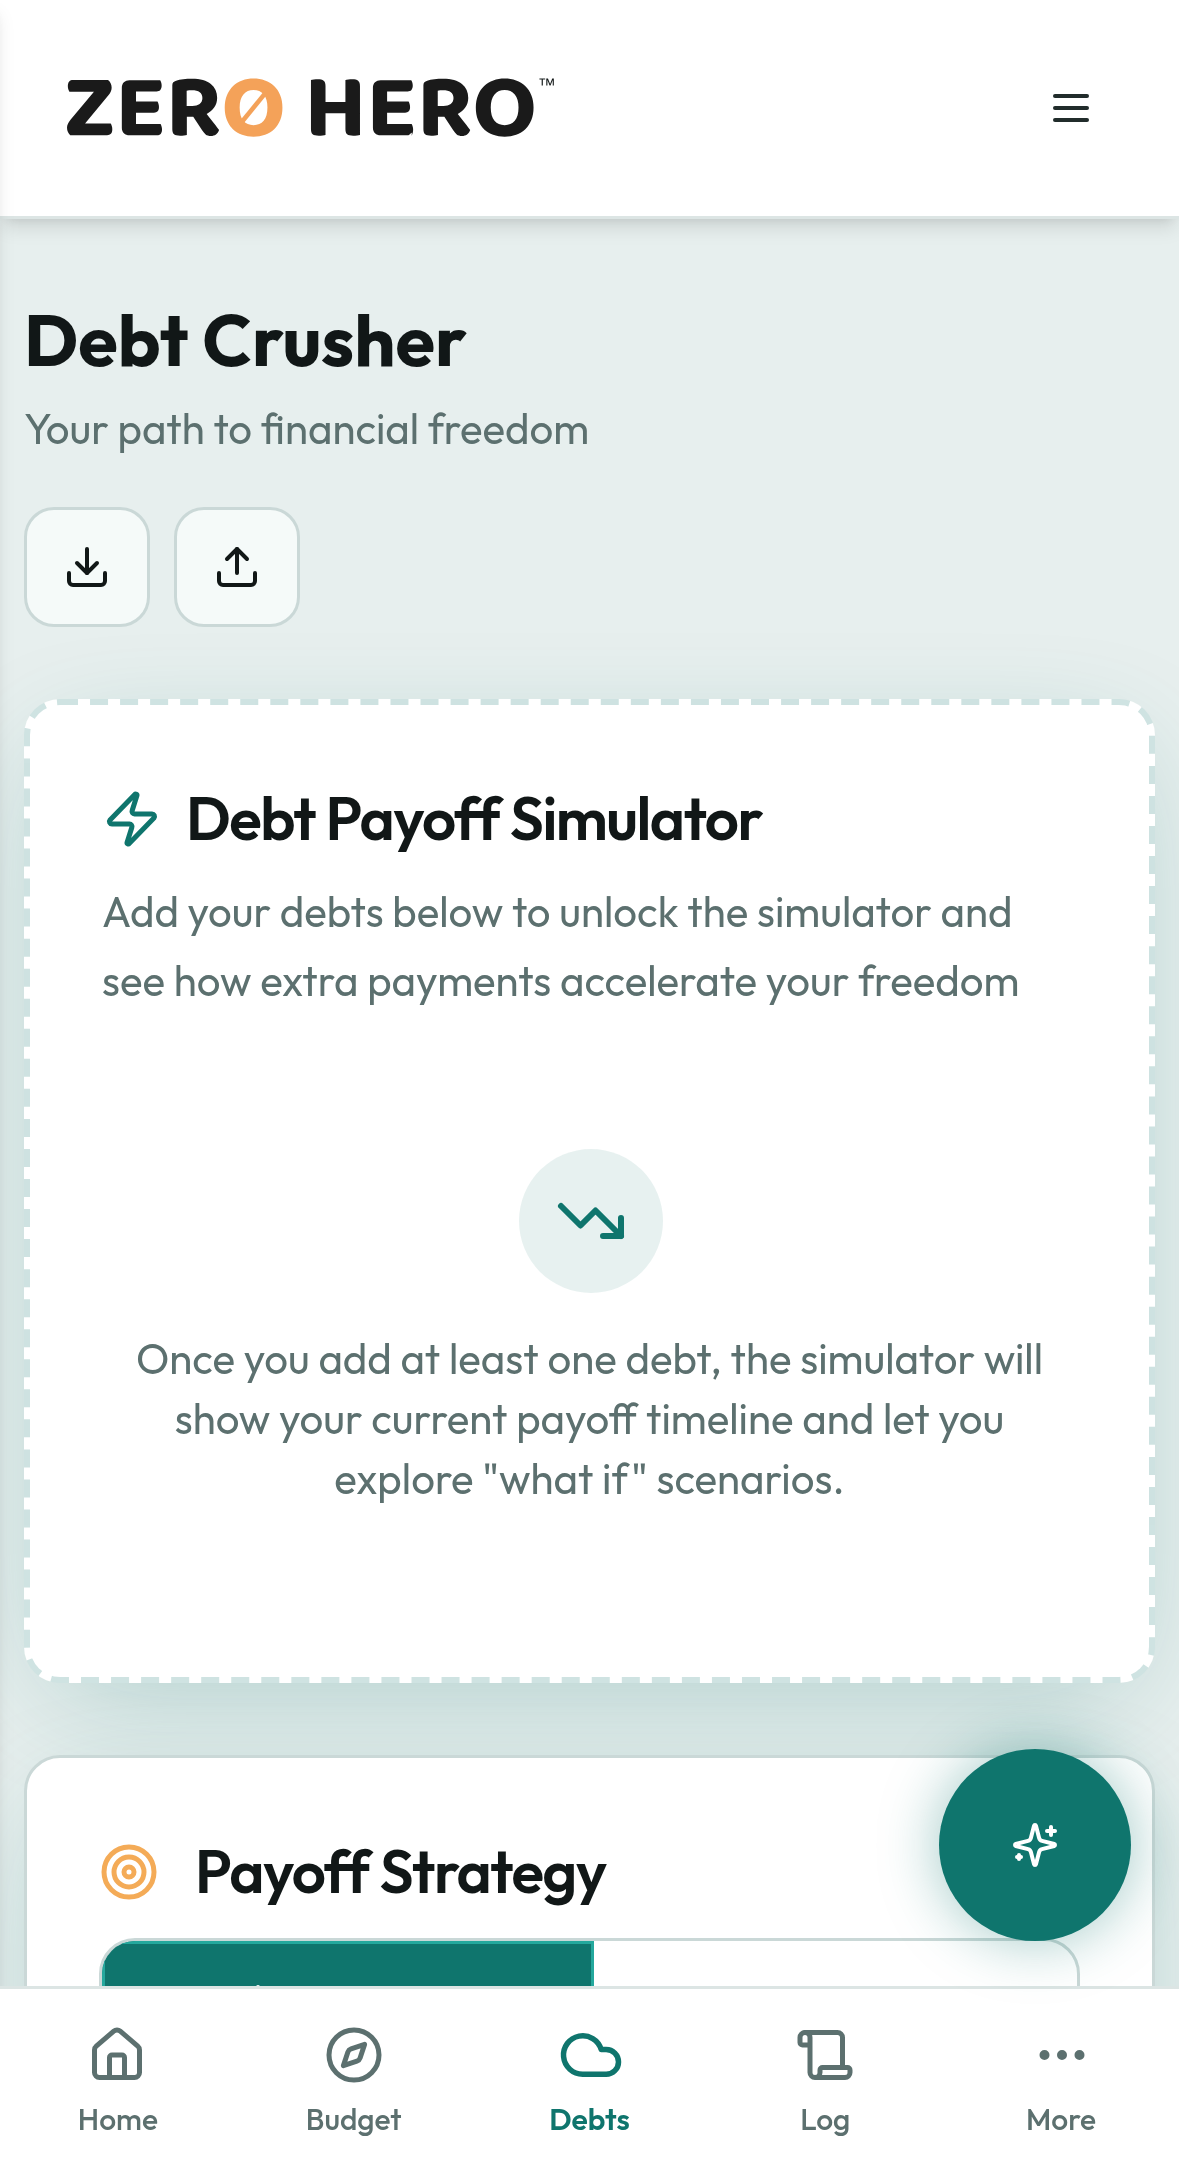
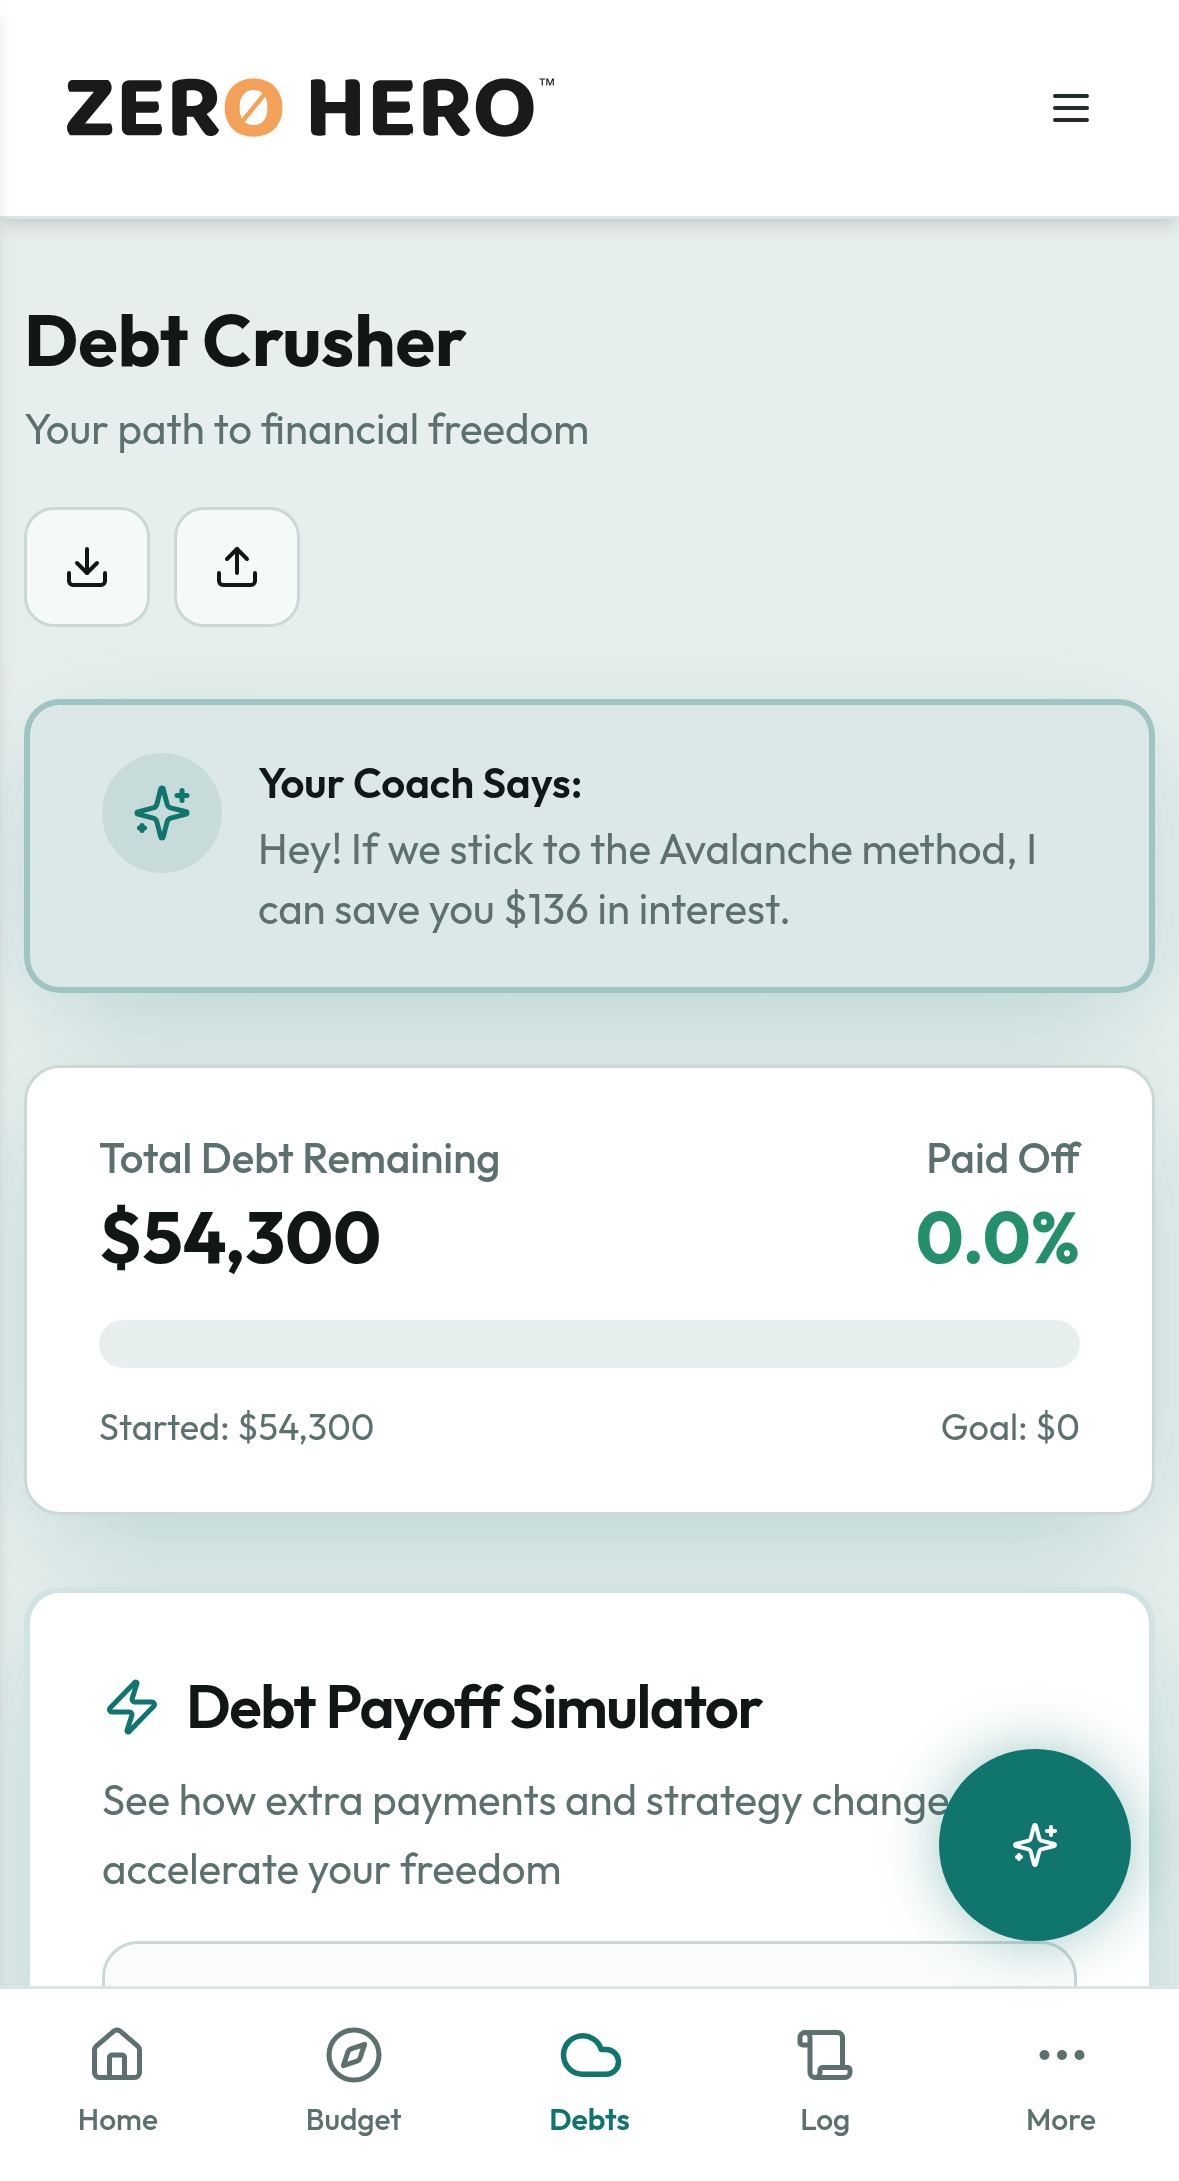
Unify debt storage, equal-height dashboard cards, retake Debts screenshot

diff --git a/e2e/debt-store.spec.ts b/e2e/debt-store.spec.ts
@@ -1,0 +1,56 @@
+import { test, expect } from '@playwright/test';
+
+const ID = 'demo-hero-00000000';
+const read = (page: import('@playwright/test').Page, key: string) =>
+  page.evaluate((k) => JSON.parse(localStorage.getItem(k) ?? 'null'), key);
+
+test('Debt Strategy shows the five demo debts', async ({ page }) => {
+  await page.goto('/');
+  await page.evaluate(async () => {
+    localStorage.clear();
+    const m = await import('/src/lib/demoDataLoader.ts');
+    m.loadDemoData();
+  });
+  await page.goto('/debts');
+  await expect(page.getByText('$54,300').first()).toBeVisible();
+  await expect(page.getByText(/unlock the simulator/i)).toHaveCount(0);
+});
+
+test('debt added on Debt Strategy is saved to the shared list the dashboard reads', async ({ page }) => {
+  await page.goto('/');
+  await page.evaluate(async (id) => {
+    localStorage.clear();
+    const m = await import('/src/lib/demoDataLoader.ts');
+    m.loadDemoData();
+    localStorage.setItem(`${id}_debts`, '[]');
+  }, ID);
+  await page.goto('/debts');
+  await page.getByRole('button', { name: /Add Credit Card/ }).first().click();
+  await expect.poll(async () => (await read(page, `${ID}_debts`))?.length).toBe(1);
+  const [saved] = await read(page, `${ID}_debts`);
+  expect(saved.name).toBe('New Credit Card');
+  expect(saved).toHaveProperty('interest_rate', 0);
+  expect(saved).toHaveProperty('minimum_payment', 0);
+});
+
+test('older saved debts are copied into the shared list once', async ({ page }) => {
+  await page.goto('/');
+  await page.evaluate(async (id) => {
+    localStorage.clear();
+    const m = await import('/src/lib/demoDataLoader.ts');
+    m.loadDemoData();
+    const now = new Date().toISOString();
+    localStorage.setItem(`${id}_debts`, JSON.stringify([{ id: 'a', name: 'Visa', balance: 1000, interest_rate: 20, minimum_payment: 30, type: 'card', user_id: id, created_at: now, updated_at: now }]));
+    localStorage.setItem(`${id}_bdt_debts`, JSON.stringify([
+      { id: 'a', name: 'Visa', balance: 1000, apr: 20, min: 30, type: 'card' },
+      { id: 'b', name: 'Car Loan', balance: 8000, apr: 6, min: 250, type: 'loan' },
+    ]));
+  }, ID);
+  await page.goto('/debts');
+  await expect.poll(async () => (await read(page, `${ID}_debts`))?.length).toBe(2);
+  expect(await read(page, `${ID}_bdt_debts`)).toBeNull();
+  const merged = await read(page, `${ID}_debts`);
+  expect(merged[1]).toMatchObject({ id: 'b', name: 'Car Loan', balance: 8000, interest_rate: 6, minimum_payment: 250 });
+  await page.reload();
+  await expect.poll(async () => (await read(page, `${ID}_debts`))?.length).toBe(2);
+});

diff --git a/src/lib/debtStore.ts b/src/lib/debtStore.ts
@@ -1,0 +1,76 @@
+import type { DebtItem } from './debtCalculations';
+
+/** Shape persisted under `${userId}_debts` (the single debt store). */
+export interface StoredDebt {
+  id: string;
+  name: string;
+  balance: number;
+  interest_rate: number;
+  minimum_payment: number;
+  type: string;
+  user_id: string;
+  created_at: string;
+  updated_at: string;
+  _orig?: number;
+  [extra: string]: unknown;
+}
+
+export const toDebtItem = (d: StoredDebt): DebtItem => ({
+  id: d.id,
+  name: d.name,
+  balance: Number(d.balance) || 0,
+  apr: Number(d.interest_rate) || 0,
+  min: Number(d.minimum_payment) || 0,
+  type: d.type || 'debt',
+  _orig: d._orig,
+});
+
+export const toStoredDebt = (item: DebtItem, userId: string, prev?: StoredDebt): StoredDebt => {
+  const now = new Date().toISOString();
+  return {
+    ...(prev ?? {}),
+    id: item.id,
+    name: item.name,
+    balance: item.balance,
+    interest_rate: item.apr,
+    minimum_payment: item.min,
+    type: item.type,
+    user_id: prev?.user_id ?? userId,
+    created_at: prev?.created_at ?? now,
+    updated_at:
+      prev && prev.name === item.name && prev.balance === item.balance &&
+      prev.interest_rate === item.apr && prev.minimum_payment === item.min && prev.type === item.type
+        ? prev.updated_at
+        : now,
+    ...(item._orig !== undefined ? { _orig: item._orig } : {}),
+  };
+};
+
+/**
+ * One-time move of debts saved in the retired `${userId}_bdt_debts` list into
+ * `${userId}_debts`, skipping entries already present by id or name+balance.
+ */
+export function migrateLegacyDebts(userId: string, storage: Storage = localStorage): void {
+  const legacyKey = `${userId}_bdt_debts`;
+  try {
+    const raw = storage.getItem(legacyKey);
+    if (raw === null) return;
+    const legacy = JSON.parse(raw);
+    const key = `${userId}_debts`;
+    const current: StoredDebt[] = JSON.parse(storage.getItem(key) ?? '[]');
+    if (Array.isArray(legacy) && legacy.length) {
+      const merged = [...current];
+      for (const l of legacy as DebtItem[]) {
+        if (!l || typeof l !== 'object') continue;
+        const dup = merged.some(
+          (c) => c.id === l.id || (c.name === l.name && Number(c.balance) === Number(l.balance)),
+        );
+        if (!dup) merged.push(toStoredDebt({ ...l, id: l.id || crypto.randomUUID() }, userId));
+      }
+      if (merged.length !== current.length) storage.setItem(key, JSON.stringify(merged));
+    }
+    storage.removeItem(legacyKey);
+  } catch (error) {
+    console.error('Debt migration failed', error);
+  }
+}

diff --git a/src/hooks/useDebtItems.ts b/src/hooks/useDebtItems.ts
@@ -1,0 +1,30 @@
+import { useCallback, useMemo, type SetStateAction } from 'react';
+import { useAuth } from './useAuth';
+import { useUserLocalStorage } from './useUserLocalStorage';
+import { DEMO_USER_ID } from '@/lib/demoDataLoader';
+import type { DebtItem } from '@/lib/debtCalculations';
+import { migrateLegacyDebts, toDebtItem, toStoredDebt, type StoredDebt } from '@/lib/debtStore';
+
+/** Debt Strategy view of the shared `${userId}_debts` store, in calculator shape. */
+export function useDebtItems(): [DebtItem[], (value: SetStateAction<DebtItem[]>) => void, boolean] {
+  const { user } = useAuth();
+  const userId = user?.id ?? DEMO_USER_ID;
+  // Runs before the store is read so legacy entries are never hidden.
+  useMemo(() => migrateLegacyDebts(userId), [userId]);
+  const [stored, setStored, isLoading] = useUserLocalStorage<StoredDebt[]>('debts', []);
+  const items = useMemo(() => (Array.isArray(stored) ? stored.map(toDebtItem) : []), [stored]);
+
+  const setItems = useCallback(
+    (value: SetStateAction<DebtItem[]>) => {
+      setStored((prev) => {
+        const prevList = Array.isArray(prev) ? prev : [];
+        const next = typeof value === 'function' ? value(prevList.map(toDebtItem)) : value;
+        const byId = new Map(prevList.map((d) => [d.id, d]));
+        return next.map((item) => toStoredDebt(item, userId, byId.get(item.id)));
+      });
+    },
+    [setStored, userId],
+  );
+
+  return [items, setItems, isLoading];
+}

diff --git a/src/pages/reports/NetWorthReport.tsx b/src/pages/reports/NetWorthReport.tsx
@@ -6,7 +6,7 @@ import { Card, CardContent, CardHeader, CardTitle } from "@/components/ui/card";
 import { Table, TableBody, TableCell, TableHead, TableHeader, TableRow } from "@/components/ui/table";
 import { DropdownMenu, DropdownMenuContent, DropdownMenuItem, DropdownMenuTrigger } from "@/components/ui/dropdown-menu";
 import { useLocalStorage } from "@/hooks/useLocalStorage";
-import { DEFAULT_ASSETS, SAMPLE_DEBTS, formatCurrency } from "@/lib/constants";
+import { DEFAULT_ASSETS, formatCurrency } from "@/lib/constants";
 import { simulatePayoff } from "@/lib/debtCalculations";
 import { ResponsiveContainer, PieChart, Pie, Cell, Tooltip, LineChart, Line, XAxis, YAxis, CartesianGrid } from 'recharts';
 import { CustomPieLegend, CustomLineLegend } from "@/components/charts/CustomChartLegend";
@@ -14,9 +14,11 @@ import { CHART_COLORS, STANDARD_TOOLTIP_STYLE, currencyFormatter } from "@/lib/c
 import { exportNetWorthCSV, exportNetWorthPDF } from '@/lib/reportExports';
 import { toast } from 'sonner';
 
+import { useDebtItems } from '@/hooks/useDebtItems';
+
 export const NetWorthReport = () => {
   const [assets] = useLocalStorage("bdt_assets", DEFAULT_ASSETS);
-  const [debts] = useLocalStorage("bdt_debts", SAMPLE_DEBTS);
+  const [debts] = useDebtItems();
   const [income] = useLocalStorage("bdt_income", 18254);
   const [expenses] = useLocalStorage("bdt_expenses", []);
   const [strategy] = useLocalStorage("bdt_strategy", "Snowball");

diff --git a/src/pages/DebtSnowball.tsx b/src/pages/DebtSnowball.tsx
@@ -23,8 +23,9 @@ import { Separator } from "@/components/ui/separator";
 import { Collapsible, CollapsibleContent, CollapsibleTrigger } from "@/components/ui/collapsible";
 import { Tooltip as UITooltip, TooltipContent, TooltipTrigger } from "@/components/ui/tooltip";
 import { useUserLocalStorage } from "@/hooks/useUserLocalStorage";
+import { useDebtItems } from "@/hooks/useDebtItems";
 import { useTransactions } from "@/hooks/useTransactions";
-import { SAMPLE_DEBTS, formatCurrency } from "@/lib/constants";
+import { formatCurrency } from "@/lib/constants";
 import { simulatePayoff, getDetailedPaymentSchedule, calculatePayoffPlan, compareStrategies } from "@/lib/debtCalculations";
 import { toCsv, downloadCsv, parseCsv, mapDebtCsv, validateCsvFile, type Debt } from "@/lib/csvUtils";
 import { ResponsiveContainer, LineChart, Line, XAxis, YAxis, Tooltip, CartesianGrid } from 'recharts';
@@ -40,7 +41,7 @@ import { generateDebtCoachTips } from "@/lib/debtInsights";
 import { cn } from "@/lib/utils";
 
 export const DebtSnowball = () => {
-  const [debts, setDebts] = useUserLocalStorage("bdt_debts", SAMPLE_DEBTS);
+  const [debts, setDebts] = useDebtItems();
   const [strategy, setStrategy] = useUserLocalStorage("bdt_strategy", "Snowball");
   const [income] = useUserLocalStorage("bdt_income", 0);
   const [expenses] = useUserLocalStorage("bdt_expenses", []);

diff --git a/src/hooks/useLocalSettings.ts b/src/hooks/useLocalSettings.ts
@@ -5,5 +5,4 @@ export const useIncome = () => useUserLocalStorage('bdt_income', 5000);
 export const useStrategy = () => useUserLocalStorage('bdt_strategy', 'Snowball');
 export const useExpenses = () => useUserLocalStorage('bdt_expenses', []);
 export const useAssets = () => useUserLocalStorage('bdt_assets', []);
-export const useDebts = () => useUserLocalStorage('bdt_debts', []);
 export const useGroupOrder = () => useUserLocalStorage('bdt_group_order', []);

diff --git a/src/components/dashboard/BehavioralHintCard.tsx b/src/components/dashboard/BehavioralHintCard.tsx
@@ -89,8 +89,9 @@ export function BehavioralHintCard({
       initial="hidden"
       animate="visible"
       variants={cardVariants}
+      className="h-full"
     >
-      <Card className="shadow-royal bg-white dark:bg-card">
+      <Card className="h-full shadow-royal bg-white dark:bg-card">
         <Collapsible open={isExpanded} onOpenChange={setIsExpanded}>
           <CardHeader className="pb-2">
             <CollapsibleTrigger asChild>

diff --git a/src/components/dashboard/EmergencyFundCard.tsx b/src/components/dashboard/EmergencyFundCard.tsx
@@ -74,9 +74,10 @@ export function EmergencyFundCard({
       initial="hidden"
       animate="visible"
       variants={cardVariants}
+      className="h-full"
     >
       <Card className={cn(
-        "shadow-royal hover-lift bg-white dark:bg-card",
+        "h-full shadow-royal hover-lift bg-white dark:bg-card",
         isComplete && "ring-2 ring-success/30"
       )}>
         <CardHeader className="pb-3">

diff --git a/AGENTS.md b/AGENTS.md
@@ -22,3 +22,5 @@
 ## Public payoff calculator
 - Reuse the pure debt payoff engine with page-local React state only; report incomplete simulations without a payoff date and define work hours saved against the minimum-payment-only baseline so estimates remain comparable without storing visitor data.
 - Default payoff simulations and schedules to a fixed original-minimums-plus-extra budget with rollover; explicitly disable rollover for the public calculator's minimum-only baseline so freed payments do not distort savings.
+## Debt storage
+- Debts live only in the account-scoped `debts` store; Debt Strategy and reports read it through `useDebtItems` (calculator shape), and the retired `bdt_debts` list is merged in once and removed, so every screen shows the same debts.
